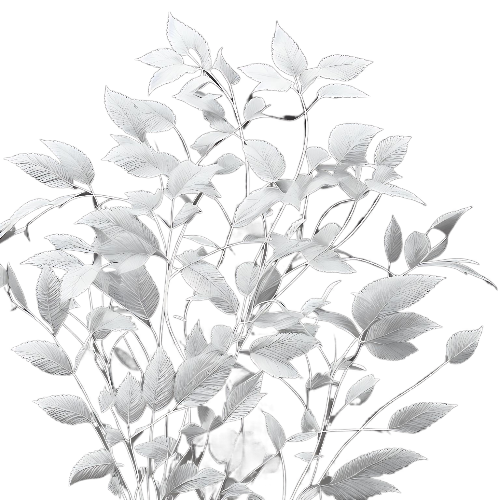
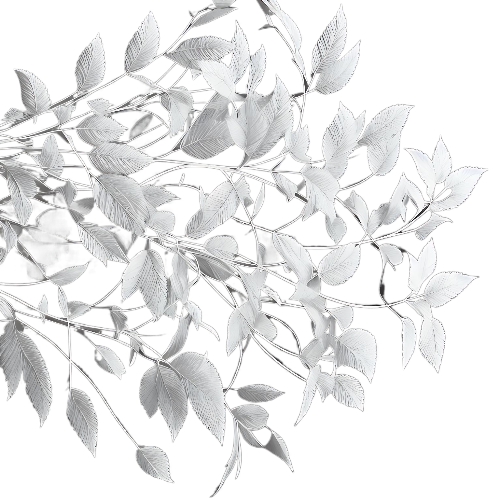
Various styling updates on the homepage

diff --git a/portfoliodelasam/src/Components/Home.module.css b/portfoliodelasam/src/Components/Home.module.css
@@ -1,9 +1,16 @@
+* {
+    -webkit-font-smoothing: antialiased;
+    -moz-osx-font-smoothing: grayscale; 
+  /* border: 1px solid white */
+}
+
 .homeRoot {
     display: flex;
     flex-direction: column;
     width: 100%;
-    min-height: 100vh;
+    min-height: 200vh;
     background-color: var(--primary);
+    
 }
 .accent1 {
     min-width: 10%;
@@ -31,12 +38,27 @@
     margin-left: 20px;
     background-color: var(--magenta);
 }
+.topLeftWrapper {
+    right:0;
+    bottom: 0;
+    position: absolute;
+    width: 15%;
+    display: flex;
+    flex-direction: column;
+    align-items: center;
+}
+.flowerImage7 {
+    width: 50%;
+}
+
 .button {
     background-color: rgba(100,255,218,0);
     color: var(--electricgreen);
     border-color: var(--electricgreen);
     padding: 10px;
     align-self: center;
+    font-family: "SF Mono","Fira Code","Fira Mono","Roboto Mono",monospace;
+    font-size: calc(7px + 0.78vmin);
 }
 .button:hover {
     background-color: var(--electricpurple);
@@ -44,26 +66,109 @@
 .penisLink {
     max-width: 10%;
     align-self: center;
+    margin-left: 15%;
 }
-.flowerImage {
+
+.borderTop {
+    /* position: absolute; */
+    width: 15%;
+    height: 5vh;
+    border-top: 1px solid var(--dark-slate);
+    border-right: 1px solid var(--dark-slate);
+    /* margin: 35vh 0 0 50vw */
+    margin-left: 35vmin;
+}
+.borderBottom {
+    /* position: absolute; */
+    width: 15%;
+    height: 5vh;
+    border-left: 1px solid var(--dark-slate);
+    border-bottom: 1px solid var(--dark-slate);
+    margin-right: 35vmin;
+    /* margin: 55vh 0 0 34vw */
+}
+
+.centerWrapper {
+    display: flex;
+    flex-direction: column;
+    align-content: center;
+    justify-content: center;
+    align-items: center;
+}
+
+.flowerImage2 {
     width: 10%;
+}
+.flowerImage3 {
+    width: 10%;
+}
+.flowerImage4 {
+    width: 10%;
+}
+.flowerImage5 {
+    width: 10%;
+}
+.flowerImage6 {
+    width: 10%;
+    position: absolute;
+    bottom: 0;  
+}
+.flowerImage8 {
+    width: 65%;
+    /* align-self: flex-end; */
+    margin-bottom: 0;
 }
 
 .email {
     font-family: "SF Mono","Fira Code","Fira Mono","Roboto Mono",monospace;
     writing-mode: vertical-rl;
-    font-size: calc(7px + 0.8vmin);
-    color: var(--fontColor);
-    margin: 0vmin 25vmin 0 1vmin;
+    font-size: calc(5px + 0.95vmin);
+    color: var(--light-slate);
+    text-decoration: none;
+    /* margin: 0vmin 6.4% 0 1vmin; */
+}
+.email:hover {
+    color: var(--lightest-slate);
 }
 
+.emailWrapper {
+    display: flex;
+    flex-direction: column;
+    align-self: flex-end;
+    align-items: center;
+    max-width: 15%;
+    min-height: 40vh;
+
+}
+.emailLine {
+    border-left: 2px solid white;
+    height: 3.5vmin;
+    margin: 0 0 5%;
+}
+
+.socialIcons {
+    color: white;
+    margin-bottom: 15px;
+}
+
+.nameText {
+   color: var(--fontColor);
+   align-self: center;
+   margin:0;
+   margin-bottom: 1.2%;  
+   font-family: "SF Mono","Fira Code","Fira Mono","Roboto Mono",monospace;
+   font-size: calc(16px + 2.5vmin);
+   text-shadow:var(--dark-slate) 1.5px 1.5px;
+   -webkit-font-smoothing: antialiased;
+  -moz-osx-font-smoothing: grayscale;  
+}
 
 .textExpand {
     align-self: center;
     margin-bottom: 2vh;
     margin-right: 40vmin;
     font-size: calc(7px + 0.8vmin);
-    color: white;
+    color: var(--light-slate);
 	-webkit-animation: focus-in-contract 0.7s cubic-bezier(0.250, 0.460, 0.450, 0.940) both;
 	        animation: focus-in-contract 0.7s cubic-bezier(0.250, 0.460, 0.450, 0.940) both;
 }
@@ -95,6 +200,111 @@
       }
     }
   
+    .slideInTop {
+        -webkit-animation: slide-in-blurred-top 0.8s cubic-bezier(0.230, 1.000, 0.320, 1.000) 1.5s both;
+                animation: slide-in-blurred-top 0.8s cubic-bezier(0.230, 1.000, 0.320, 1.000) 1.5s both;
+    }
+
+    @-webkit-keyframes slide-in-blurred-top {
+        0% {
+          -webkit-transform: translateY(-1000px) scaleY(2.5) scaleX(0.2);
+                  transform: translateY(-1000px) scaleY(2.5) scaleX(0.2);
+          -webkit-transform-origin: 50% 0%;
+                  transform-origin: 50% 0%;
+          -webkit-filter: blur(40px);
+                  filter: blur(40px);
+          opacity: 0;
+        }
+        100% {
+          -webkit-transform: translateY(0) scaleY(1) scaleX(1);
+                  transform: translateY(0) scaleY(1) scaleX(1);
+          -webkit-transform-origin: 50% 50%;
+                  transform-origin: 50% 50%;
+          -webkit-filter: blur(0);
+                  filter: blur(0);
+          opacity: 1;
+        }
+      }
+      @keyframes slide-in-blurred-top {
+        0% {
+          -webkit-transform: translateY(-1000px) scaleY(2.5) scaleX(0.2);
+                  transform: translateY(-1000px) scaleY(2.5) scaleX(0.2);
+          -webkit-transform-origin: 50% 0%;
+                  transform-origin: 50% 0%;
+          -webkit-filter: blur(40px);
+                  filter: blur(40px);
+          opacity: 0;
+        }
+        100% {
+          -webkit-transform: translateY(0) scaleY(1) scaleX(1);
+                  transform: translateY(0) scaleY(1) scaleX(1);
+          -webkit-transform-origin: 50% 50%;
+                  transform-origin: 50% 50%;
+          -webkit-filter: blur(0);
+                  filter: blur(0);
+          opacity: 1;
+        }
+      }
+
+      .slideInBottom {
+        -webkit-animation: slide-in-blurred-bottom 0.8s cubic-bezier(0.230, 1.000, 0.320, 1.000) 1s both;
+                animation: slide-in-blurred-bottom 0.8s cubic-bezier(0.230, 1.000, 0.320, 1.000) 1s both;
+      }
+
+      @-webkit-keyframes slide-in-blurred-bottom {
+        0% {
+          -webkit-transform: translateY(1000px) scaleY(2.5) scaleX(0.2);
+                  transform: translateY(1000px) scaleY(2.5) scaleX(0.2);
+          -webkit-transform-origin: 50% 100%;
+                  transform-origin: 50% 100%;
+          -webkit-filter: blur(40px);
+                  filter: blur(40px);
+          opacity: 0;
+        }
+        100% {
+          -webkit-transform: translateY(0) scaleY(1) scaleX(1);
+                  transform: translateY(0) scaleY(1) scaleX(1);
+          -webkit-transform-origin: 50% 50%;
+                  transform-origin: 50% 50%;
+          -webkit-filter: blur(0);
+                  filter: blur(0);
+          opacity: 1;
+        }
+      }
+      @keyframes slide-in-blurred-bottom {
+        0% {
+          -webkit-transform: translateY(1000px) scaleY(2.5) scaleX(0.2);
+                  transform: translateY(1000px) scaleY(2.5) scaleX(0.2);
+          -webkit-transform-origin: 50% 100%;
+                  transform-origin: 50% 100%;
+          -webkit-filter: blur(40px);
+                  filter: blur(40px);
+          opacity: 0;
+        }
+        100% {
+          -webkit-transform: translateY(0) scaleY(1) scaleX(1);
+                  transform: translateY(0) scaleY(1) scaleX(1);
+          -webkit-transform-origin: 50% 50%;
+                  transform-origin: 50% 50%;
+          -webkit-filter: blur(0);
+                  filter: blur(0);
+          opacity: 1;
+        }
+      }
+
+      body::-webkit-scrollbar {
+        border-radius: 10%;
+        width: 12px;
+      }
+      
+      body::-webkit-scrollbar-track-piece {
+        background: rgb(30, 30, 33);
+      }
+      ::-webkit-scrollbar-thumb {
+        background-color: #42494b;
+        border-radius: 2%;
+      }
+      
 
 
 
@@ -107,7 +317,7 @@
     --magenta: rgba(255, 0, 232, 1);
     --red: rgba(255, 0, 0, 1);
 
-    --fontColor: rgb(255, 255, 255);
+    --fontColor: rgb(244, 242, 242);
     
     --primary: #05142a;
     --electricblue: rgba(0, 192, 255, 1);

diff --git a/portfoliodelasam/src/Components/Home.js b/portfoliodelasam/src/Components/Home.js
@@ -1,34 +1,61 @@
 import React from "react";
 import styles from './Home.module.css'
 import { Link } from "react-router-dom";
+import { FiGithub } from 'react-icons/fi'
+import { AiFillLinkedin } from 'react-icons/ai'
+import { SiCodewars } from 'react-icons/si'
 
 
-function Home ({ setRouteTo }) {
+function Home({ setRouteTo }) {
     return (
         <div className={styles.homeRoot}>
-            <img className = {styles.flowerImage} src="flowerVine2.png" alt="white flowers"></img>
-            <span className={styles.email}>sam.ban@gmail.com</span>
+            <div className={`${styles.emailWrapper}`}>
+                <img className={styles.flowerImage8} src="flowerVine5.png" alt="white flowers"></img>
+                
+                    <p className={`${styles.emailLine} ${styles.slideInTop}`}></p>
+                    <a href="mailto:sam.ban@gmail.com" className={`${styles.email} ${styles.slideInTop}`}>sam.ban@gmail.com</a>
+                
+            </div>
+            <div className={styles.centerWrapper}>
+              <span className= {styles.borderTop}></span>
+              <p className={styles.textExpand}>hello, my name is,</p>
+              <p className={styles.nameText}>Samuel Banister</p>
+              <Link to='/loading' className={styles.penisLink}>
+                <button className={styles.button}
+                    onClick={() => {
+                        setRouteTo('/about')
+                    }}
+                >See my Work</button>
+            </Link>
+              <span className= {styles.borderBottom}></span>
+            </div>
+
+    
+
+            <div className={styles.topLeftWrapper}>
+                {/* <span className={styles.email}>sam.ban@gmail.com</span> */}
+
+                <FiGithub className={`${styles.socialIcons} ${styles.slideInBottom}`} size={'2.3vmin'} />
+                <SiCodewars className={`${styles.socialIcons} ${styles.slideInBottom}`} size={'2vmin'} />
+                <AiFillLinkedin className={`${styles.socialIcons} ${styles.slideInBottom}`} size={'2.3vmin'} />
+
+
+                <p className={`${styles.emailLine} ${styles.slideInBottom}`}></p>
+                <img className={styles.flowerImage7} src="flowerVine8.png" alt="white flowers"></img>
+            </div>
+            {/* <img className = {styles.flowerImage2} src="flowerVine2.png" alt="white flowers"></img> */}
             <p className={styles.accent1}></p>
             <p className={styles.accent2}></p>
             <p className={styles.accent3}></p>
             <p className={styles.accent4}></p>
             <p className={styles.accent5}></p>
             <p className={styles.accent6}></p>
-            <img className = {styles.flowerImage} src="flowerVine3.png" alt="white flowers"></img>
-            <img className = {styles.flowerImage} src="flowerVine4.png" alt="white flowers"></img>
-            <img className = {styles.flowerImage} src="flowerVine5.png" alt="white flowers"></img>
-            <img className = {styles.flowerImage} src="flowerVine6.png" alt="white flowers"></img>
-            <img className = {styles.flowerImage} src="flowerVine7.png" alt="white flowers"></img>
-            <img className = {styles.flowerImage} src="flowerVine8.png" alt="white flowers"></img>
-            <p className={styles.textExpand}>hello, my name is</p>
+            {/* <img className = {styles.flowerImage3} src="flowerVine3.png" alt="white flowers"></img> */}
+            {/* <img className = {styles.flowerImage4} src="flowerVine4.png" alt="white flowers"></img> */}
 
-        <Link to = '/loading' className={styles.penisLink}>
-              <button className={styles.button} 
-                onClick={() => {
-                  setRouteTo('/about')
-                }}
-              >touch my penis</button>
-        </Link>
+            {/* <img className = {styles.flowerImage5} src="flowerVine6.png" alt="white flowers"></img> */}
+            {/* <img className = {styles.flowerImage6} src="flowerVine7.png" alt="white flowers"></img> */}
+
 
         </div>
 

diff --git a/portfoliodelasam/public/index.html b/portfoliodelasam/public/index.html
@@ -24,6 +24,9 @@
       work correctly both with client-side routing and a non-root public URL.
       Learn how to configure a non-root public URL by running `npm run build`.
     -->
+    <link rel="preconnect" href="https://fonts.googleapis.com">
+    <link rel="preconnect" href="https://fonts.gstatic.com" crossorigin>
+    <link href="https://fonts.googleapis.com/css2?family=Roboto+Mono:wght@200;300&display=swap" rel="stylesheet">
     <title>React App</title>
   </head>
   <body>
